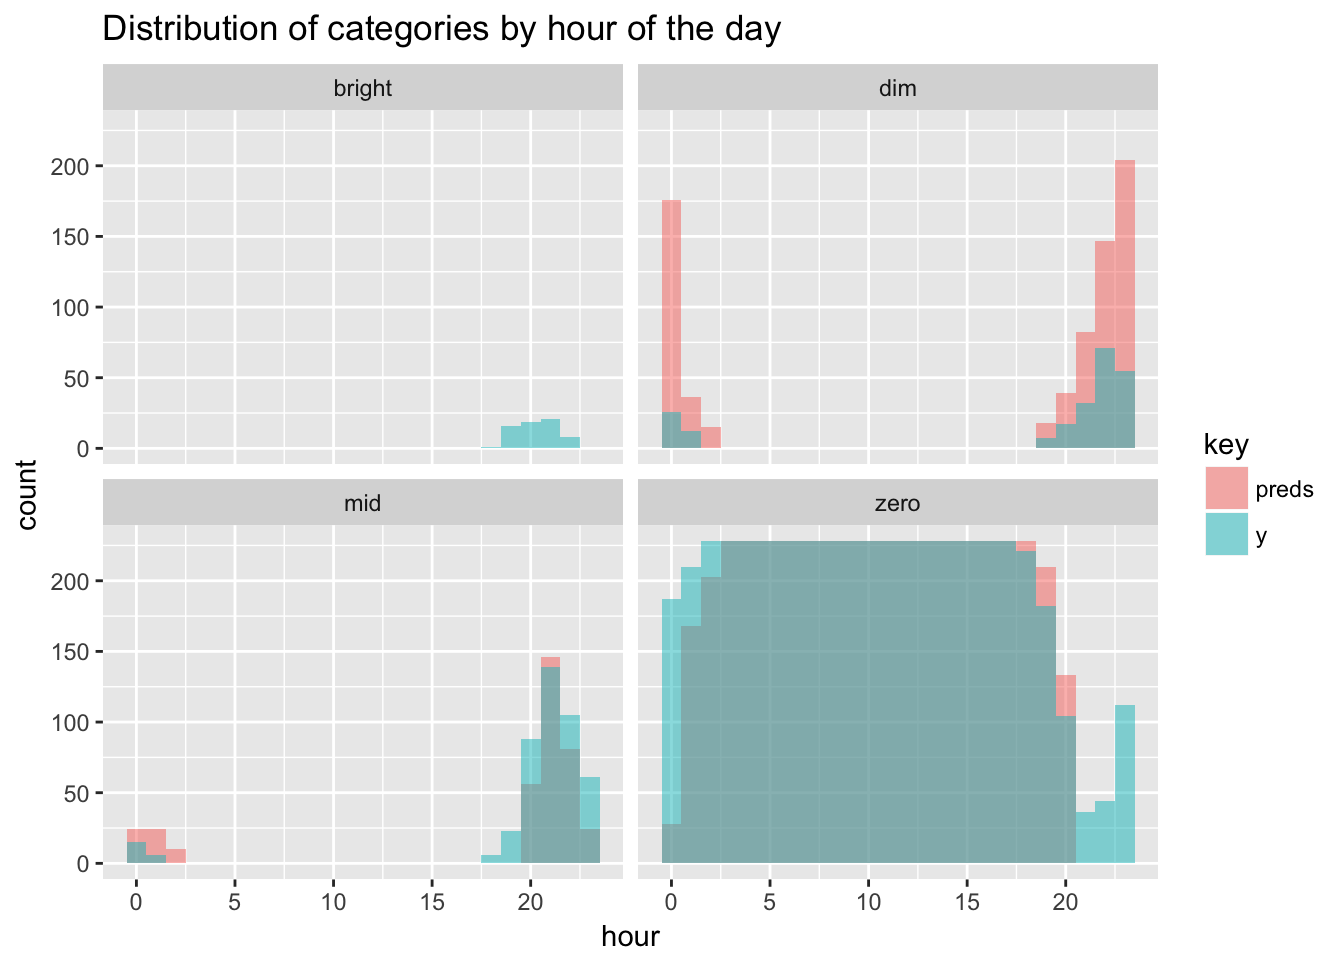
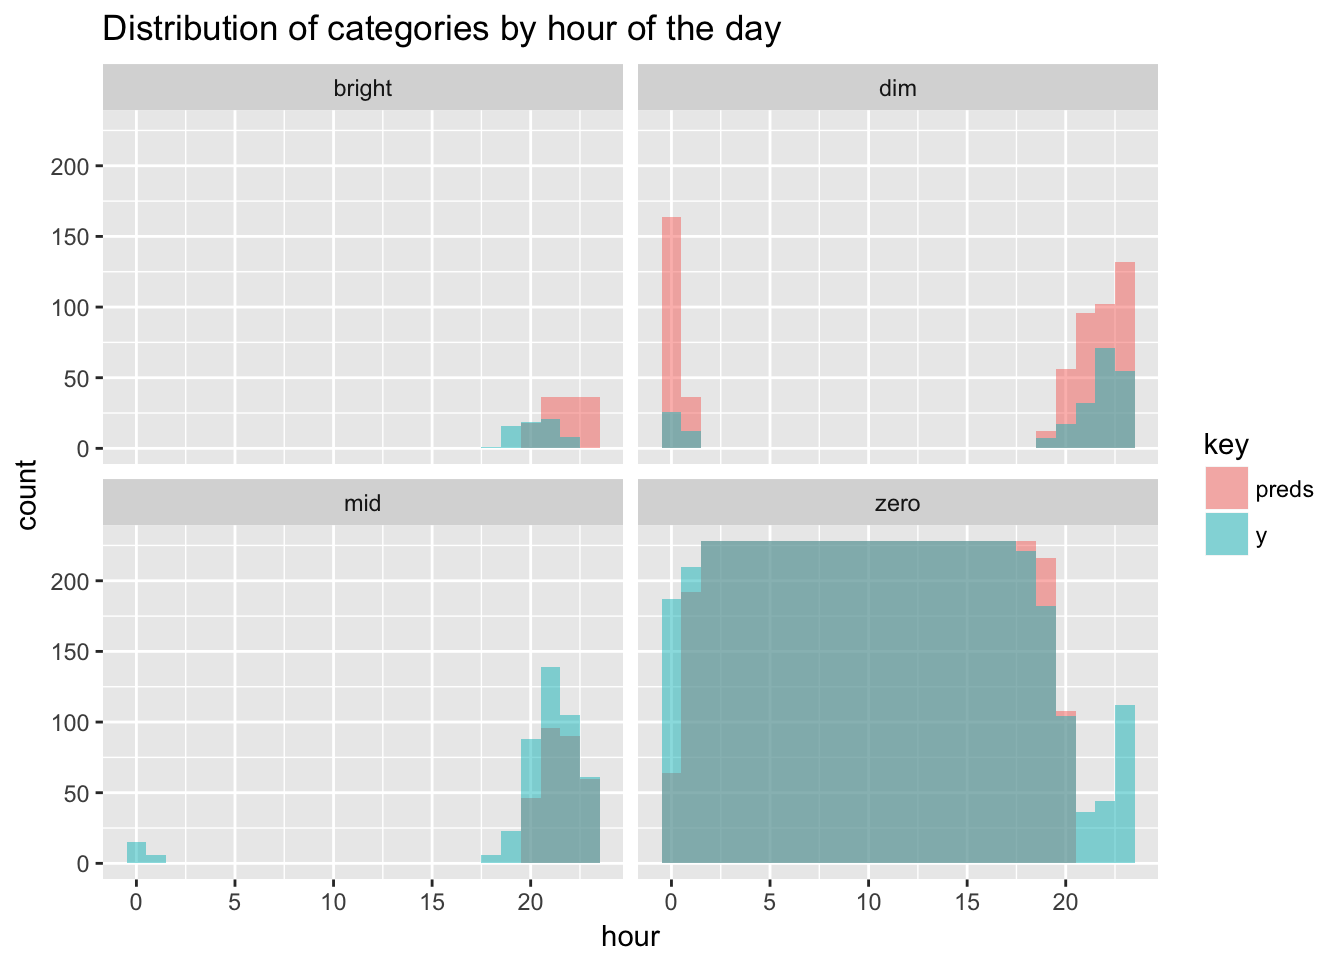
4th post typo fix1

diff --git a/blog/self-learning-hue-lights/index.html b/blog/self-learning-hue-lights/index.html
@@ -44,11 +44,11 @@
 
 
     
-    <link rel="stylesheet" href="../../css/reset.css?t=1504132165">
-    <link rel="stylesheet" href="../../css/pygments.css?t=1504132165">
-    <link rel="stylesheet" href="../../css/main.css?t=1504132165">
+    <link rel="stylesheet" href="../../css/reset.css?t=1504133262">
+    <link rel="stylesheet" href="../../css/pygments.css?t=1504133262">
+    <link rel="stylesheet" href="../../css/main.css?t=1504133262">
     
-        <link rel="stylesheet" href="../../css/override.css?t=1504132165">
+        <link rel="stylesheet" href="../../css/override.css?t=1504133262">
     
 
 
@@ -278,10 +278,10 @@ gbmFit &lt;- train(y ~ ., data = training,
 table(preds, testing$y)</code></pre>
 <pre><code>##         
 ## preds     dim  mid bright zero
-##   dim     104  205     23  385
-##   mid      78  147     14  126
-##   bright    0    0      0    0
-##   zero     38   91     28 4233</code></pre>
+##   dim      68  191     34  305
+##   mid      76  119      6   91
+##   bright   37   57      0   32
+##   zero     39   76     25 4316</code></pre>
 <p>Most mistakes are made trying to classify bright and mid. The model gets 0 bright values right and only manages to do so correctly 14% of the time for mid. But when do errors happen? To dig a little deeper let’s look at the previous histogram of categories by hour again for the test set, but now with the predictions overlayed on top.</p>
 <p><img src="../../blog/2017/2017-05-14-hue_files/figure-html/unnamed-chunk-11-1.png" width="672" /></p>
 <p>Bright values were always gonna be hard to guess, but the model at least comes close in terms of hours, but off on the exact days. The majority of misclassification comes from overzealously predicting dim in the evening and around midnight, when it should really be either mid or zero. That looks like a workable scenario for me.</p>
@@ -322,7 +322,7 @@ jug() %&gt;% post(&quot;/predict-hue&quot;, decorate(predict_hue)) %&gt;%
 </div>
 <div id="conclusion" class="section level1">
 <h1>Conclusion</h1>
-<p>There is something very satisfying about building your own data products and seeing them at work. Even something as trivial as controlling the light switch for you. I only have data since this year May, so there’s a good chance our model will get smarter as days go by. We can easily schedule to retrain the model every week or even day, without having to lift a finger. Most of the code in this post is now pacakeged up as a handful of <code>R</code> functions deployed on my Raspberry Pi. Now, when I <em>choose</em> to pass out on my couch next time, at least lights won’t stay on for too long.</p>
+<p>There is something very satisfying about building your own data products and seeing them at work. Even something as trivial as controlling the light switch for you. I only have data since this year May, so there’s a good chance our model will get smarter as days go by. We can easily schedule to retrain the model every week or even day, without having to lift a finger. Most of the code in this post is now packaged up as a handful of <code>R</code> functions deployed on my Raspberry Pi. Now, when I <em>choose</em> to pass out on my couch next time, at least lights won’t stay on for too long.</p>
 </div>
 
                 <br>

diff --git a/blog/analyzing-my-spotify-listening-history/index.html b/blog/analyzing-my-spotify-listening-history/index.html
@@ -44,11 +44,11 @@
 
 
     
-    <link rel="stylesheet" href="../../css/reset.css?t=1504132165">
-    <link rel="stylesheet" href="../../css/pygments.css?t=1504132165">
-    <link rel="stylesheet" href="../../css/main.css?t=1504132165">
+    <link rel="stylesheet" href="../../css/reset.css?t=1504133262">
+    <link rel="stylesheet" href="../../css/pygments.css?t=1504133262">
+    <link rel="stylesheet" href="../../css/main.css?t=1504133262">
     
-        <link rel="stylesheet" href="../../css/override.css?t=1504132165">
+        <link rel="stylesheet" href="../../css/override.css?t=1504133262">
     
 
 

diff --git a/blog/creating-a-spotify-playlist-using-luigi/index.html b/blog/creating-a-spotify-playlist-using-luigi/index.html
@@ -44,11 +44,11 @@
 
 
     
-    <link rel="stylesheet" href="../../css/reset.css?t=1504132165">
-    <link rel="stylesheet" href="../../css/pygments.css?t=1504132165">
-    <link rel="stylesheet" href="../../css/main.css?t=1504132165">
+    <link rel="stylesheet" href="../../css/reset.css?t=1504133262">
+    <link rel="stylesheet" href="../../css/pygments.css?t=1504133262">
+    <link rel="stylesheet" href="../../css/main.css?t=1504133262">
     
-        <link rel="stylesheet" href="../../css/override.css?t=1504132165">
+        <link rel="stylesheet" href="../../css/override.css?t=1504133262">
     
 
 

diff --git a/blog/starting-a-blogdown/index.html b/blog/starting-a-blogdown/index.html
@@ -44,11 +44,11 @@
 
 
     
-    <link rel="stylesheet" href="../../css/reset.css?t=1504132165">
-    <link rel="stylesheet" href="../../css/pygments.css?t=1504132165">
-    <link rel="stylesheet" href="../../css/main.css?t=1504132165">
+    <link rel="stylesheet" href="../../css/reset.css?t=1504133262">
+    <link rel="stylesheet" href="../../css/pygments.css?t=1504133262">
+    <link rel="stylesheet" href="../../css/main.css?t=1504133262">
     
-        <link rel="stylesheet" href="../../css/override.css?t=1504132165">
+        <link rel="stylesheet" href="../../css/override.css?t=1504133262">
     
 
 

diff --git a/categories/r/index.html b/categories/r/index.html
@@ -44,11 +44,11 @@
 
 
     
-    <link rel="stylesheet" href="../../css/reset.css?t=1504132166">
-    <link rel="stylesheet" href="../../css/pygments.css?t=1504132166">
-    <link rel="stylesheet" href="../../css/main.css?t=1504132166">
+    <link rel="stylesheet" href="../../css/reset.css?t=1504133262">
+    <link rel="stylesheet" href="../../css/pygments.css?t=1504133262">
+    <link rel="stylesheet" href="../../css/main.css?t=1504133262">
     
-        <link rel="stylesheet" href="../../css/override.css?t=1504132166">
+        <link rel="stylesheet" href="../../css/override.css?t=1504133262">
     
 
 

diff --git a/tags/dplyr/index.html b/tags/dplyr/index.html
@@ -44,11 +44,11 @@
 
 
     
-    <link rel="stylesheet" href="../../css/reset.css?t=1504132166">
-    <link rel="stylesheet" href="../../css/pygments.css?t=1504132166">
-    <link rel="stylesheet" href="../../css/main.css?t=1504132166">
+    <link rel="stylesheet" href="../../css/reset.css?t=1504133262">
+    <link rel="stylesheet" href="../../css/pygments.css?t=1504133262">
+    <link rel="stylesheet" href="../../css/main.css?t=1504133262">
     
-        <link rel="stylesheet" href="../../css/override.css?t=1504132166">
+        <link rel="stylesheet" href="../../css/override.css?t=1504133262">
     
 
 

diff --git a/tags/ggplot/index.html b/tags/ggplot/index.html
@@ -44,11 +44,11 @@
 
 
     
-    <link rel="stylesheet" href="../../css/reset.css?t=1504132166">
-    <link rel="stylesheet" href="../../css/pygments.css?t=1504132166">
-    <link rel="stylesheet" href="../../css/main.css?t=1504132166">
+    <link rel="stylesheet" href="../../css/reset.css?t=1504133262">
+    <link rel="stylesheet" href="../../css/pygments.css?t=1504133262">
+    <link rel="stylesheet" href="../../css/main.css?t=1504133262">
     
-        <link rel="stylesheet" href="../../css/override.css?t=1504132166">
+        <link rel="stylesheet" href="../../css/override.css?t=1504133262">
     
 
 

diff --git a/tags/hue/index.html b/tags/hue/index.html
@@ -44,11 +44,11 @@
 
 
     
-    <link rel="stylesheet" href="../../css/reset.css?t=1504132166">
-    <link rel="stylesheet" href="../../css/pygments.css?t=1504132166">
-    <link rel="stylesheet" href="../../css/main.css?t=1504132166">
+    <link rel="stylesheet" href="../../css/reset.css?t=1504133262">
+    <link rel="stylesheet" href="../../css/pygments.css?t=1504133262">
+    <link rel="stylesheet" href="../../css/main.css?t=1504133262">
     
-        <link rel="stylesheet" href="../../css/override.css?t=1504132166">
+        <link rel="stylesheet" href="../../css/override.css?t=1504133262">
     
 
 

diff --git a/tags/luigi/index.html b/tags/luigi/index.html
@@ -44,11 +44,11 @@
 
 
     
-    <link rel="stylesheet" href="../../css/reset.css?t=1504132166">
-    <link rel="stylesheet" href="../../css/pygments.css?t=1504132166">
-    <link rel="stylesheet" href="../../css/main.css?t=1504132166">
+    <link rel="stylesheet" href="../../css/reset.css?t=1504133262">
+    <link rel="stylesheet" href="../../css/pygments.css?t=1504133262">
+    <link rel="stylesheet" href="../../css/main.css?t=1504133262">
     
-        <link rel="stylesheet" href="../../css/override.css?t=1504132166">
+        <link rel="stylesheet" href="../../css/override.css?t=1504133262">
     
 
 

diff --git a/tags/plot/index.html b/tags/plot/index.html
@@ -44,11 +44,11 @@
 
 
     
-    <link rel="stylesheet" href="../../css/reset.css?t=1504132166">
-    <link rel="stylesheet" href="../../css/pygments.css?t=1504132166">
-    <link rel="stylesheet" href="../../css/main.css?t=1504132166">
+    <link rel="stylesheet" href="../../css/reset.css?t=1504133262">
+    <link rel="stylesheet" href="../../css/pygments.css?t=1504133262">
+    <link rel="stylesheet" href="../../css/main.css?t=1504133262">
     
-        <link rel="stylesheet" href="../../css/override.css?t=1504132166">
+        <link rel="stylesheet" href="../../css/override.css?t=1504133262">
     
 
 

diff --git a/tags/purrr/index.html b/tags/purrr/index.html
@@ -44,11 +44,11 @@
 
 
     
-    <link rel="stylesheet" href="../../css/reset.css?t=1504132166">
-    <link rel="stylesheet" href="../../css/pygments.css?t=1504132166">
-    <link rel="stylesheet" href="../../css/main.css?t=1504132166">
+    <link rel="stylesheet" href="../../css/reset.css?t=1504133262">
+    <link rel="stylesheet" href="../../css/pygments.css?t=1504133262">
+    <link rel="stylesheet" href="../../css/main.css?t=1504133262">
     
-        <link rel="stylesheet" href="../../css/override.css?t=1504132166">
+        <link rel="stylesheet" href="../../css/override.css?t=1504133262">
     
 
 

diff --git a/tags/python/index.html b/tags/python/index.html
@@ -44,11 +44,11 @@
 
 
     
-    <link rel="stylesheet" href="../../css/reset.css?t=1504132166">
-    <link rel="stylesheet" href="../../css/pygments.css?t=1504132166">
-    <link rel="stylesheet" href="../../css/main.css?t=1504132166">
+    <link rel="stylesheet" href="../../css/reset.css?t=1504133262">
+    <link rel="stylesheet" href="../../css/pygments.css?t=1504133262">
+    <link rel="stylesheet" href="../../css/main.css?t=1504133262">
     
-        <link rel="stylesheet" href="../../css/override.css?t=1504132166">
+        <link rel="stylesheet" href="../../css/override.css?t=1504133262">
     
 
 
